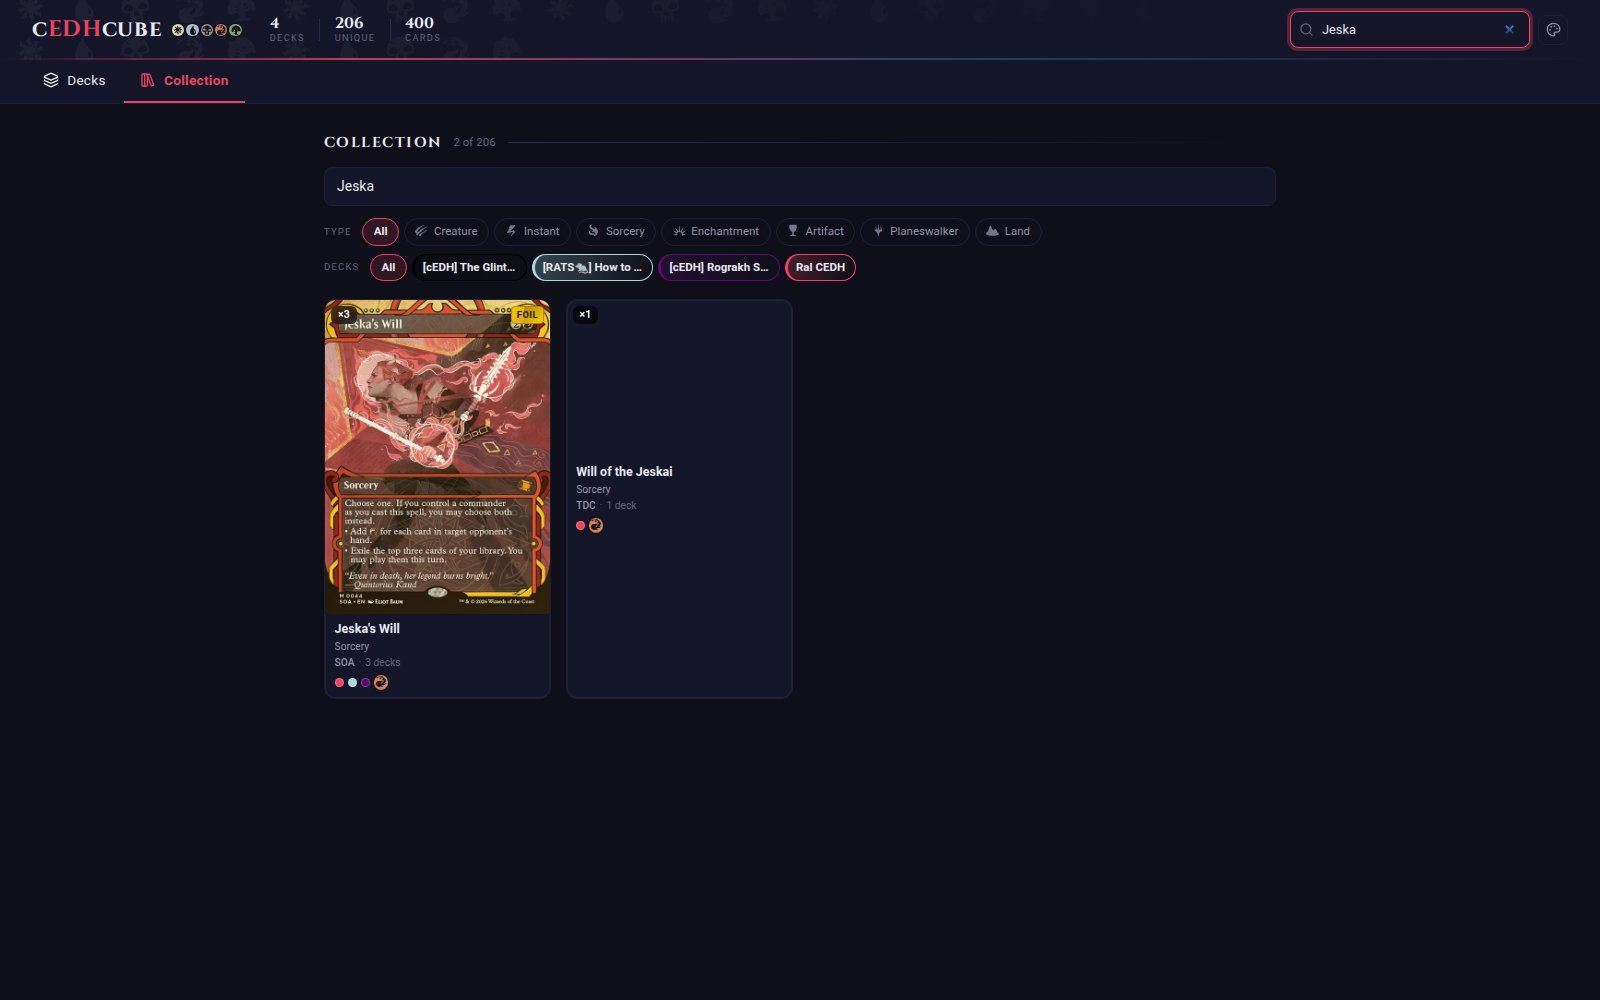
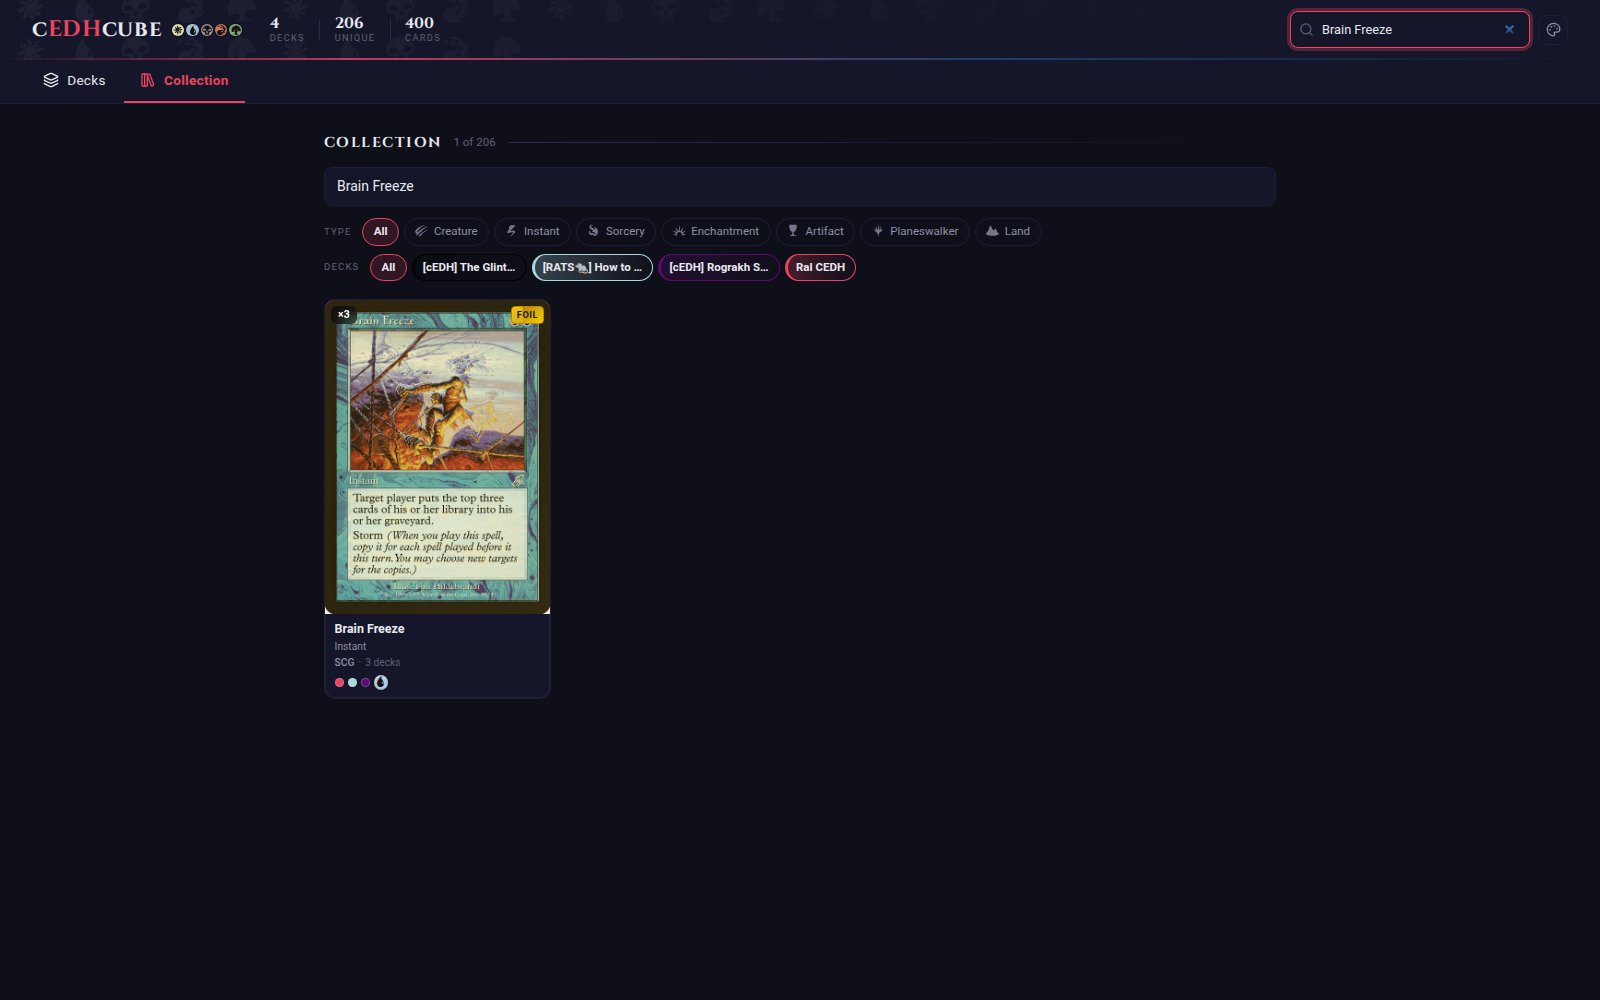
Update global search screenshot to use Brain Freeze

Changed region(s): [[0.1875, 0.279, 0.4375, 0.651], [0.2188, 0.155, 0.25, 0.217]]

diff --git a/docs/shoot.js b/docs/shoot.js
@@ -33,7 +33,7 @@ const OUT = '/home/npopkov/magic-collection/docs/screenshots';
   await page.click('button:has-text("Decks")');
   await page.waitForTimeout(500);
   const searchInput = page.locator('input[placeholder="Search collection…"]');
-  await searchInput.fill('Jeska');
+  await searchInput.fill('Brain Freeze');
   await searchInput.press('Enter');
   await page.waitForTimeout(1200);
   await shot('04-global-search');
